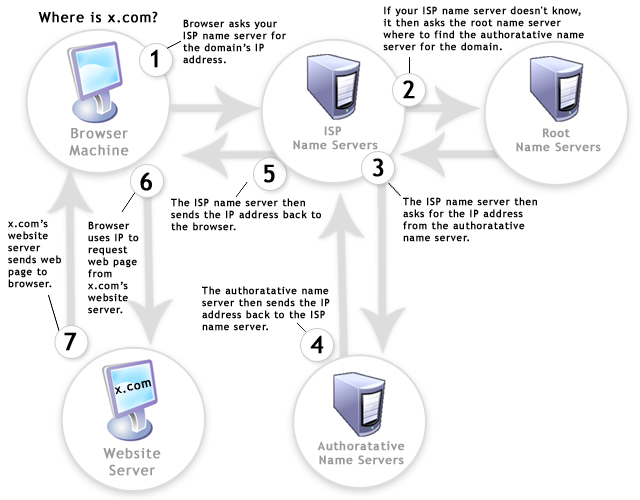
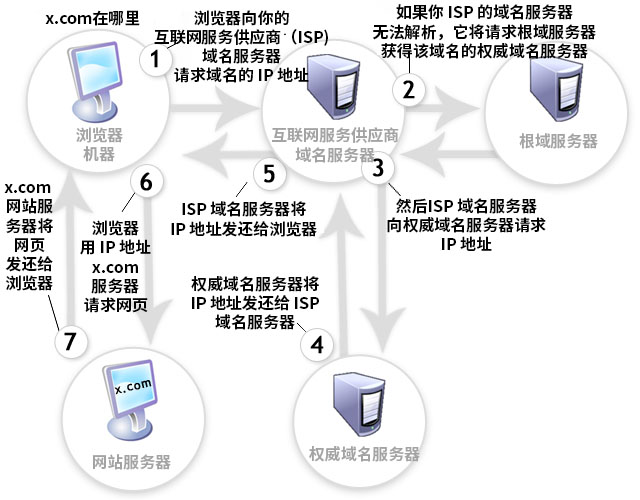
translate cli -- dom

diff --git a/learning/dom.md b/learning/dom.md
@@ -1,79 +1,54 @@
-# Learn DOM, BOM, & jQuery
+# 学习 DOM、BOM 和 jQuery
 
-> **DOM** - The Document Object Model (DOM) is a cross-platform and language-independent convention for representing and interacting with objects in HTML, XHTML, and XML documents. The nodes of every document are organized in a tree structure, called the DOM tree. Objects in the DOM tree may be addressed and manipulated by using methods on the objects. The public interface of a DOM is specified in its application programming interface (API).
+> **DOM** - 文档对象模型（DOM）是一个跨平台、不依赖语言的规范，用来表达和交互 HTML、XHTML 和 XML 文档中的对象。每个文档内的所有节点被组织成树状结构（DOM 树）。DOM 树内的对象可以通过对象方法进行操作。DOM 的公共接口在它的 API 中声明。
 
-><cite>&#8212; [Wikipedia](https://en.wikipedia.org/wiki/Document_Object_Model)</cite>
- 
-> **BOM** - The Browser Object Model (BOM) is a browser-specific convention referring to all the objects exposed by the web browser. Unlike the Document Object Model, there is no standard for implementation and no strict definition, so browser vendors are free to implement the BOM in any way they wish.
+><cite>&#8212; [维基百科](https://en.wikipedia.org/wiki/Document_Object_Model)</cite>
 
-><cite>&#8212; [Wikipedia](https://en.wikipedia.org/wiki/Browser_Object_Model)</cite>
- 
-> **jQuery** - jQuery is a cross-platform JavaScript library designed to simplify the client-side scripting of HTML. jQuery is the most popular JavaScript library in use today, with installation on 65% of the top 10 million highest-trafficked sites on the Web. jQuery is free, open-source software licensed under the MIT License.
+> **BOM** - 浏览器对象模型（BOM）是一个基于特定浏览器的规范，用来引用网络浏览器暴露的所有对象。与 DOM 不同，BOM 没有应用标准或严格的定义，因此浏览器厂商可以按自己的意愿实现 BOM。
 
-><cite>&#8212; [Wikipedia](https://en.wikipedia.org/wiki/JQuery)</cite>
+><cite>&#8212; [维基百科](https://en.wikipedia.org/wiki/Browser_Object_Model)</cite>
 
-The ideal path, but certainly the most difficult, would be to first learn JavaScript, then the DOM, then jQuery. However, do what makes sense to your brain. Most front-end developers learn about JavaScript and then DOM by way of first learning jQuery. Whatever path you take, just make sure JavaScript, the DOM, and jQuery don't become a black box.
+> **jQuery** - jQuery 是一个跨平台的 Javascript 库，用来简化浏览器端的 HTML 编程。jQuery是现在最流行的 Javascript 库，在流量最大的1000万网站中有65%安装了它。jQuery免费，是一个基于 MIT 证书开源的软件。
 
-##### General Learning:
+><cite>&#8212; [维基百科](https://en.wikipedia.org/wiki/JQuery)</cite>
 
-* [Codecademy.com jQuery](https://www.codecademy.com/tracks/jquery) [watch]
-* [The Document Object Model](http://eloquentjavascript.net/13_dom.html) [read]
-* [HTML/JS: Making Webpages Interactive](https://www.khanacademy.org/computing/computer-programming/html-css-js) [watch]
-* [HTML/JS: Making Webpages Interactive with jQuery](https://www.khanacademy.org/computing/computer-programming/html-js-jquery) [watch]
-* [jQuery Enlightenment](http://jqueryenlightenment.com/) [read]
-* [What is the DOM?](https://developer.mozilla.org/en-US/docs/Web/API/Document_Object_Model/Introduction) [read]
+理想（同时也是最难）的学习路线是先 Javascript 然后 DOM 再 jQuery。不过你也可以按自己的方式来。大多数前端开发者先学习 Javascript 然后通过 jQuery 学习 DOM。无论采用哪种方式，只要确保 Javascript、DOM和jQuery对你来说不是黑箱就行。
 
-##### Mastering:
+##### 入门:
 
-* [AdvancED DOM Scripting: Dynamic Web Design Techniques](http://www.amazon.com/gp/product/1590598563/ref=as_li_tl?ie=UTF8&camp=1789&creative=390957&creativeASIN=1590598563&linkCode=as2&tag=fronenddevejo-20&linkId=VQZU5EQIQQXCF56Y) [read][$]
-* [Advanced JS Fundamentals to jQuery & Pure DOM Scripting](https://frontendmasters.com/courses/javascript-jquery-dom/) [watch][$]
-* [Douglas Crockford: An Inconvenient API - The Theory of the DOM](https://www.youtube.com/watch?v=Y2Y0U-2qJMs&list=PL5586336C26BDB324&index=2) [watch]
-* [DOM Enlightenment](http://www.amazon.com/DOM-Enlightenment-Cody-Lindley/dp/1449342841/) [read][$] or [read online for free](http://domenlightenment.com/)
-* [Fixing Common jQuery Bugs](http://www.pluralsight.com/courses/fixing-common-jquery-bugs) [watch][$]
-* [jQuery-Free JavaScript](http://www.pluralsight.com/courses/jquery-free-javascript) [watch][$]
-* [jQuery Tips and Tricks](http://www.pluralsight.com/courses/jquery-tips-and-tricks) [watch][$]
+* [Codecademy.com jQuery](https://www.codecademy.com/tracks/jquery) [视频]
+* [DOM](http://eloquentjavascript.net/13_dom.html) [图文]
+* [HTML/JS: 让网页可以交互](https://www.khanacademy.org/computing/computer-programming/html-css-js) [视频]
+* [HTML/JS: 用 jQuery使网页可以交互](https://www.khanacademy.org/computing/computer-programming/html-js-jquery) [视频]
+* [你不知道的 jQuery](http://jqueryenlightenment.com/) [图文]
+* [DOM 是什么？](https://developer.mozilla.org/en-US/docs/Web/API/Document_Object_Model/Introduction) [图文]
 
-##### References/Docs:
+##### 进阶:
 
-* [jQuery Docs](http://api.jquery.com/)
-* [Events](https://html.spec.whatwg.org/#events-2)
-* [DOM Browser Support](http://www.webbrowsercompatibility.com/dom/desktop/)
-* [DOM Events Browser Support](http://www.webbrowsercompatibility.com/dom-events/desktop/)
-* [HTML Interfaces Browser Support](http://www.webbrowsercompatibility.com/html-interfaces/desktop/)
-* [MDN Document Object Model (DOM)](https://developer.mozilla.org/en-US/docs/Web/API/Document_Object_Model)
-* [MDN Browser Object Model](https://developer.mozilla.org/en-US/docs/Web/API/Window)
-* [MDN Document Object Model](https://developer.mozilla.org/en-US/docs/Web/API/Document_Object_Model)
-* [MDN Event reference](https://developer.mozilla.org/en-US/docs/Web/Events)
-* [MSDN Document Object Model (DOM)](https://msdn.microsoft.com/en-us/library/hh772384%28v=vs.85%29.aspx)
+* [高级 DOM 编程：动态网页设计技术 ](http://www.amazon.com/gp/product/1590598563/ref=as_li_tl?ie=UTF8&camp=1789&creative=390957&creativeASIN=1590598563&linkCode=as2&tag=fronenddevejo-20&linkId=VQZU5EQIQQXCF56Y) [图文][付费]
+* [从高级 JS 原理到 jQuery & 纯 DOM 编程 ](https://frontendmasters.com/courses/javascript-jquery-dom/) [视频][付费]
+* [Douglas Crockford: 不好用的API - DOM 理论](https://www.youtube.com/watch?v=Y2Y0U-2qJMs&list=PL5586336C26BDB324&index=2) [视频]
+* [你不知道的 DOM](http://www.amazon.com/DOM-Enlightenment-Cody-Lindley/dp/1449342841/) [图文][付费] or [在线免费阅读](http://domenlightenment.com/)
+* [修复常见的 jQuery 错误](http://www.pluralsight.com/courses/fixing-common-jquery-bugs) [视频][付费]
+* [摆脱 jQuery 的 JavaScript 编程](http://www.pluralsight.com/courses/jquery-free-javascript) [视频][付费]
+* [jQuery 奇巧淫技](http://www.pluralsight.com/courses/jquery-tips-and-tricks) [视频][付费]
 
-##### Standards/Specifications:
+##### 参考文档:
 
-* [Document Object Model (DOM) Level 3 Events Specification](https://www.w3.org/TR/DOM-Level-3-Events/)
-* [Document Object Model (DOM) Technical Reports](http://www.w3.org/DOM/DOMTR)
-* [DOM Living Standard](https://dom.spec.whatwg.org/)
-* [W3C DOM4](https://www.w3.org/TR/2015/REC-dom-20151119/)
+* [jQuery 文档](http://api.jquery.com/)
+* [事件机制](https://html.spec.whatwg.org/#events-2)
+* [DOM 浏览器支持](http://www.webbrowsercompatibility.com/dom/desktop/)
+* [DOM 事件浏览器支持](http://www.webbrowsercompatibility.com/dom-events/desktop/)
+* [HTML 接口浏览器支持](http://www.webbrowsercompatibility.com/html-interfaces/desktop/)
+* [MDN DOM](https://developer.mozilla.org/en-US/docs/Web/API/Document_Object_Model)
+* [MDN BOM](https://developer.mozilla.org/en-US/docs/Web/API/Window)
+* [MDN DOM](https://developer.mozilla.org/en-US/docs/Web/API/Document_Object_Model)
+* [MDN 事件参考](https://developer.mozilla.org/en-US/docs/Web/Events)
+* [MSDN DOM](https://msdn.microsoft.com/en-us/library/hh772384%28v=vs.85%29.aspx)
 
+##### 标准:
 
-
-
-
-
-
-
-
-
-
-
-
-
-
-
-
-
- 
-
-
-
-
-
-
+* [DOM 第3章：事件机制细则](https://www.w3.org/TR/DOM-Level-3-Events/)
+* [DOM 技术报告](http://www.w3.org/DOM/DOMTR)
+* [DOM 现行规范](https://dom.spec.whatwg.org/)
+* [W3C DOM 第4版](https://www.w3.org/TR/2015/REC-dom-20151119/)

diff --git a/learning/courses.md b/learning/courses.md
@@ -1,81 +1,81 @@
-# Directed Learning
+# 定向学习
 
-The table below contains instructor led, paid, front-end courses, programs, schools, and bootcamps.
+以下表格包括了一些教员主导式付费的前端开发教程、课程、学校和训练营。
 
-However, if you can't afford a directed education (can be very expensive), a [self directed](../learning/self-direct-learning.html) education using screencasts, books, and articles is a viable alternative to learn front-end development for the self-driven individual.
+然而，对于自我驱动的开发者而言，如果无法承担定向教育的费用（实在太贵了），也可以通过录屏、书籍和文章来[自学](../learning/self-direct-learning.html)学习前端开发。
 
 <table>
     <thead>
         <tr>
-            <th data-field="company">company</th>
-            <th data-field="model">course</th>
-            <th data-field="year">price</th>
-            <th data-field="onsite">on site</th>
-            <th data-field="remote">remote</th>
+            <th data-field="company">公司</th>
+            <th data-field="model">课程</th>
+            <th data-field="year">价格</th>
+            <th data-field="onsite">地点</th>
+            <th data-field="remote">远程</th>
         </tr>
     </thead>
     <tbody>
         <tr>
             <td>Betamore</td>
-            <td><a target="_blank" href="http://betamore.com/academy/front-end-web-development/">Front-end Web Development</a></td>
+            <td><a target="_blank" href="http://betamore.com/academy/front-end-web-development/">前端开发</a></td>
             <td>3,000</td>
-            <td>Baltimore, MD</td>
+            <td>巴尔的摩，马里兰州</td>
             <td></td>
         </tr>
         <tr>
             <td>BLOC</td>
-            <td><a target="_blank" href="https://www.bloc.io/frontend-development-bootcamp">Become a Frontend Developer</a></td>
+            <td><a target="_blank" href="https://www.bloc.io/frontend-development-bootcamp">成为全前端开发者</a></td>
             <td>4,999</td>
             <td></td>
-            <td>yes</td>
+            <td>是</td>
         </tr>
         <tr>
             <td>General Assembly</td>
-            <td><a target="_blank" href="https://generalassemb.ly/education/front-end-web-development">Frontend Web Development</a></td>
+            <td><a target="_blank" href="https://generalassemb.ly/education/front-end-web-development">前端开发</a></td>
             <td>3,500</td>
-            <td>multiple locations</td>
+            <td>多个地点</td>
             <td></td>
         </tr>
         <tr>
             <td>HackerYou</td>
-            <td><a target="_blank" href="http://hackeryou.com/front-end-web-development-immersive/">Front-end Web Development Immersive</a></td>
+            <td><a target="_blank" href="http://hackeryou.com/front-end-web-development-immersive/">沉浸式学习前端开发</a></td>
             <td>7,000 - 7,910</td>
-            <td>Toronto, Canada</td>
+            <td>多伦多，加拿大</td>
             <td></td>
         </tr>
         <tr>
             <td>The New York Code + Design Academy</td>
-            <td><a target="_blank" href="http://nycda.com/classes/front-end-101/">Front End 101</a></td>
+            <td><a target="_blank" href="http://nycda.com/classes/front-end-101/">前端 101</a></td>
             <td>2,000</td>
-            <td>New York, NY</td>
+            <td>纽约，纽约州</td>
             <td></td>
         </tr>
         <tr>
             <td>Thinkful</td>
-            <td><a target="_blank" href="http://www.thinkful.com/courses/learn-web-development-online">Frontend Web Development</a></td>
-            <td>300 per month</td>
+            <td><a target="_blank" href="http://www.thinkful.com/courses/learn-web-development-online">前端开发</a></td>
+            <td>每月300</td>
             <td></td>
-            <td>yes</td>
+            <td>是</td>
         </tr>
         <tr>
             <td>Turing School of Software & Design</td>
-            <td><a target="_blank" href="https://www.turing.io/programs/front-end-engineering">Front-End Engineering</a></td>
+            <td><a target="_blank" href="https://www.turing.io/programs/front-end-engineering">前端工程</a></td>
             <td>20,000</td>
             <td></td>
-            <td>yes</td>
+            <td>是</td>
         </tr>
         <tr>
             <td>Udacity</td>
             <td><a target="_blank" href="https://www.udacity.com/course/nd001">Front-End Web Developer Nanodegree</a></td>
-            <td>200 monthly</td>
-            <td>multiple locations</td>
-            <td>yes</td>
+            <td>每月200</td>
+            <td>多个地点</td>
+            <td>是</td>
         </tr>
     </tbody>
 </table>
 
 ***
 
-###### NOTES:
+###### 备注:
 
-For a complete list of courses/bootcamps look at [switchup.org](https://www.switchup.org/front-end-development) or [coursereport.com](https://www.coursereport.com/tracks/front-end-developer-bootcamps).
+完整列表详见 [switchup.org](https://www.switchup.org/front-end-development) 或 [coursereport.com](https://www.coursereport.com/tracks/front-end-developer-bootcamps)。

diff --git a/learning/dns.md b/learning/dns.md
@@ -1,15 +1,15 @@
-# Learn Domain Name System (aka DNS)
+# 学习域名系统（也就是 DNS)
 
-> The Domain Name System (DNS) is a hierarchical distributed naming system for computers, services, or any resource connected to the Internet or a private network. It associates various information with domain names assigned to each of the participating entities. Most prominently, it translates domain names, which can be easily memorized by humans, to the numerical IP addresses needed for the purpose of computer services and devices worldwide. The Domain Name System is an essential component of the functionality of most Internet services because it is the Internet's primary directory service.
+> 域名系统是一个针对连入互联网或私有网络的计算机、服务或任何资源的分级分布式命名系统。它将众多信息和赋予给各个主体的域名进行关联。其中最主要的功能是，把那些利于人类记忆的域名翻译成全球范围内计算机服务和设备需要的数值型 IP 地址。作为互联网主要的目录服务，域名系统是大部分互联网服务功能的重要组成部分。
 
-><cite>&#8212; [Wikipedia](https://en.wikipedia.org/wiki/Domain_Name_System)</cite>
+><cite>&#8212; 引自[维基百科](https://en.wikipedia.org/wiki/Domain_Name_System)</cite>
 
 ![](../images/dns.jpg "http://www.digital-digest.com/blog/DVDGuy/wp-content/uploads/2011/11/how_dns_works.jpg")
 
-<cite>Image source: <a href="http://www.digital-digest.com/blog/DVDGuy/wp-content/uploads/2011/11/how_dns_works.jpg">http://www.digital-digest.com/blog/DVDGuy/wp-content/uploads/2011/11/how_dns_works.jpg</a></cite>
+<cite>图片来源： <a href="http://www.digital-digest.com/blog/DVDGuy/wp-content/uploads/2011/11/how_dns_works.jpg">http://www.digital-digest.com/blog/DVDGuy/wp-content/uploads/2011/11/how_dns_works.jpg</a></cite>
 
-* [An Introduction to DNS Terminology, Components, and Concepts](https://www.digitalocean.com/community/tutorials/an-introduction-to-dns-terminology-components-and-concepts) [read]
-* [DNS Explained](https://www.youtube.com/watch?v=72snZctFFtA) [watch]
-* [How DNS Works](https://howdns.works/ep1/) [read]
-* [The Internet: IP Addresses and DNS](https://www.youtube.com/watch?v=5o8CwafCxnU&index=3&list=PLzdnOPI1iJNfMRZm5DDxco3UdsFegvuB7) [watch]
-* [What is a domain name?](https://developer.mozilla.org/en-US/docs/Learn/Common_questions/What_is_a_domain_name) [read]
+* [介绍 DNS 相关术语、组成部分和概念](https://www.digitalocean.com/community/tutorials/an-introduction-to-dns-terminology-components-and-concepts) [图文]
+* [理解 DNS](https://www.youtube.com/watch?v=72snZctFFtA) [视频]
+* [DNS 工作原理](https://howdns.works/ep1/) [图文]
+* [互联网的 IP 地址和域名系统](https://www.youtube.com/watch?v=5o8CwafCxnU&index=3&list=PLzdnOPI1iJNfMRZm5DDxco3UdsFegvuB7) [视频]
+* [什么是域名？](https://developer.mozilla.org/en-US/docs/Learn/Common_questions/What_is_a_domain_name) [图文]

diff --git a/learning/cli.md b/learning/cli.md
@@ -1,46 +1,18 @@
-# Learn Command Line
+# 学习命令行
 
-> A command-line interface or command language interpreter (CLI), also known as command-line user interface, console user interface, and character user interface (CUI), is a means of interacting with a computer program where the user (or client) issues commands to the program in the form of successive lines of text (command lines).
+> 命令行界面或命令语言编译器，又叫做命令行用户界面、控制台用户界面或字符用户界面，是一种由用户（或客户端）发出一系列连续的文本指令与计算机程序进行交互的方式。
 
-><cite>&#8212; [Wikipedia](https://en.wikipedia.org/wiki/Command-line_interface)</cite>
+><cite>&#8212; 引自[维基百科](https://en.wikipedia.org/wiki/Command-line_interface)</cite>
 
-##### General Learning:
+##### 入门篇:
 
-* [The Bash Guide](http://guide.bash.academy/) [read]
-* [Codecademy: Learn the Command Line](https://www.codecademy.com/courses/learn-the-command-line) [watch]
-* [Command Line Power User](http://commandlinepoweruser.com/) [watch]
-* [Learn Enough Command Line to Be Dangerous](http://www.learnenough.com/command-line-tutorial) [read] [free to $]
-* [Meet the Command Line](http://www.pluralsight.com/courses/meet-command-line) [watch][$]
+* [Bash 指南](http://guide.bash.academy/) [图文]
+* [Codecademy：学习命令行](https://www.codecademy.com/courses/learn-the-command-line) [视频]
+* [如何成为命令行超级用户](http://commandlinepoweruser.com/) [视频]
+* [命令行小试身手](http://www.learnenough.com/command-line-tutorial) [图文] [免费阅读，电子书需付费]
+* [初识命令行](http://www.pluralsight.com/courses/meet-command-line) [视频][付费]
 
-##### Mastering:
+##### 进阶篇:
 
-* [Advanced Command Line Techniques](https://code.tutsplus.com/courses/advanced-command-line-techniques) [watch][$]
-* [Introduction to Bash, VIM & Regex](https://frontendmasters.com/courses/bash-vim-regex/) [watch][$]
-
-
-
-
-
-
-
-
-
-
-
-
-
-
-
-
-
-
-
-
-
- 
-
-
-
-
-
-
+* [命令行高级技能](https://code.tutsplus.com/courses/advanced-command-line-techniques) [视频][付费]
+* [Bash、VIM 和正则表达式入门](https://frontendmasters.com/courses/bash-vim-regex/) [视频][付费]

diff --git a/learning/data-api.md b/learning/data-api.md
@@ -1,58 +1,6 @@
-# Learn Data (i.e. JSON) API Design
+# 学习数据（也就是 JSON）API 设计
 
-* [API Design in Node.js (using Express & Mongo)](https://frontendmasters.com/courses/api-design-nodejs/) [watch][$]
-* [Build APIs You Won't Hate](http://apisyouwonthate.com/) [$][read]
-* [JSON API ](http://jsonapi.org/) [read]
-* [RESTful Web API Design with Node.JS - Second Edition](https://www.amazon.com/RESTful-Web-API-Design-Node-JS/dp/1786469138?&_encoding=UTF8&tag=frontend-handbook-20&linkCode=ur2&linkId=65822660966bb9c5339b4b411ef25d73&camp=1789&creative=9325) [$][read]
-
-
-
-
-
-
-
-
-
-
-
-
-
-
-
-
-
-
-
-
-
-
-
-
-
-
-
-
-
-
-
-
-
-
-
-
-
-
-
-
-
-
-
-
-
-
-
-
-
-
-
-
+* [Node.js 中的 API 设计（用 Express 和 Mongo)](https://frontendmasters.com/courses/api-design-nodejs/) [视频][复位]
+* [编写好用的 API](http://apisyouwonthate.com/) [图文][付费]
+* [JSON API ](http://jsonapi.org/) [图文]
+* [用 Node.JS 设计 RESTful 网络 API -- 第二版 ](https://www.amazon.com/RESTful-Web-API-Design-Node-JS/dp/1786469138?&_encoding=UTF8&tag=frontend-handbook-20&linkCode=ur2&linkId=65822660966bb9c5339b4b411ef25d73&camp=1789&creative=9325) [图文][付费]

diff --git a/learning/cs.md b/learning/cs.md
@@ -1,6 +1,6 @@
-# Learn Computer Science via JS 
+# 通过 Javascript 学习计算机科学
 
-* [Four Semesters of Computer Science in Six Hours](https://frontendmasters.com/workshops/computer-science/) [video][$]
-* [Computer Science in JavaScript](https://github.com/davidshariff/computer-science) [read]
-* [Collection of classic computer science paradigms, algorithms, and approaches written in JavaScript](https://github.com/nzakas/computer-science-in-javascript) [read]
-* [Algorithms and Data Structures in JavaScript](https://frontendmasters.com/workshops/algorithms-data-structures-js/) [watch][$]
+* [六小时学完四个学期的计算机科学课程](https://frontendmasters.com/workshops/computer-science/) [视频][付费]
+* [Javascript 中的计算机科学](https://github.com/davidshariff/computer-science) [图文]
+* [一系列由 Javascript 编写的经典计算机科学范式、算法和方法](https://github.com/nzakas/computer-science-in-javascript) [图文]
+* [Javascript 中的算法和数据结构](https://frontendmasters.com/workshops/algorithms-data-structures-js/) [视频][付费]

diff --git a/learning/direct-learning.md b/learning/direct-learning.md
@@ -1,3 +1,3 @@
-# Directed Learning
+# 定向学习
 
-This section focuses on directed learning via schools, courses, programs and bootcamps.
+本章节着重于学校、教程、课程和训练营中的定向学习。
